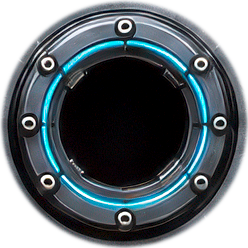
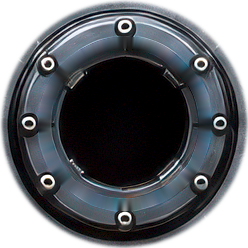
rovers: the knob rings drawn whole by code, the painted rings taken out of the art

Changed region(s): [[0.1411, 0.1411, 0.8468, 0.875]]

diff --git a/tools/bake-art/Rover.cpp b/tools/bake-art/Rover.cpp
@@ -56,6 +56,11 @@ namespace
         juce::Rectangle<float> slot;        // the slot cut down the room, its rim included — where the skin lays its fader
     };
 
+    /** A RING PAINTED ROUND A KNOB (`eraseRing`): the circle fitted to the middle of its light, `centre`
+        and `radius`; how far its middle wanders off that circle, at most (`reach`); and how far its light
+        reaches either side of its own middle, its glow on the groove's floor included (`half`). */
+    struct PaintedRing { juce::Point<float> centre; float radius, reach, half; };
+
     /** WHAT ONE ROVER'S PICTURE NEEDS. */
     struct Rover
     {
@@ -89,6 +94,13 @@ namespace
             pixel is a lit lamp, 0..1 — none where the picture paints no lamp lit. */
         float (*lampness) (juce::Colour);
         std::array<juce::Rectangle<float>, 4> lamps;
+
+        /** THE RINGS PAINTED ROUND THE KNOBS, TAKEN OUT: DRIVE's, in the dashboard's space, and the one in
+            the socket's render under each tone knob, in the socket's own — `socketSize` across, the
+            skin's plan.socketSize, the render twice that; and how much of a pixel is a ring's light. */
+        PaintedRing driveRing, socketRing;
+        float socketSize;
+        float (*ringness) (juce::Colour);
     };
 
     /** On a rusted dashboard warm is everywhere: a lamp is what is both warm AND bright — its red well
@@ -111,6 +123,19 @@ namespace
         const float warm   = (r - b - 0.25f) / 0.25f;
         const float bright = (0.3f * r + 0.59f * g + 0.11f * b - 0.38f) / 0.18f;
         return juce::jmin (juce::jlimit (0.0f, 1.0f, warm), juce::jlimit (0.0f, 1.0f, bright));
+    }
+
+    /** A cyan ring's light is green and blue well over red: the rust round RedPawAmp's has its red over
+        both, and FrostPawAmp's steel, blue as it is, only a little of either over its red. */
+    float cyanRingness (juce::Colour c)
+    {
+        return juce::jmin (c.getFloatGreen(), c.getFloatBlue()) - c.getFloatRed();
+    }
+
+    /** A white ring on dark gunmetal is what is bright. */
+    float whiteRingness (juce::Colour c)
+    {
+        return 0.3f * c.getFloatRed() + 0.59f * c.getFloatGreen() + 0.11f * c.getFloatBlue();
     }
 
     const std::array<Rover, 3> rovers {{
@@ -144,7 +169,12 @@ namespace
           {{ { 27.0f,   363.0f, 135.0f, 32.0f },      // the segments 37..152 x 373..385
              { 1510.0f, 363.0f, 132.0f, 32.0f },      // the segments 1520..1632 x 372..385
              { 69.0f,   824.0f, 62.0f, 63.0f },       // the slant 55..97 x 834..877 as painted, moved in with its plate
-             { 1541.0f, 824.0f, 62.0f, 63.0f } }} },  // the slant 1575..1617 x 834..877 as painted, moved in with its plate
+             { 1541.0f, 824.0f, 62.0f, 63.0f } }},    // the slant 1575..1617 x 834..877 as painted, moved in with its plate
+          // DRIVE's ring fits 374.28,538.36 r 71.72, its middle off that by +-0.64 for most of the way
+          // round and up to 1.8 at most; its light, glow and all, 3 either side. A tone socket's,
+          // 62.04,62.10 r 40.56 in its render, +-0.64; its light 2.25 either side.
+          { { 374.28f, 538.36f }, 71.72f, 2.5f, 3.0f }, { { 62.04f, 62.10f }, 40.56f, 2.0f, 2.25f }, 124.0f,
+          cyanRingness },
 
         // FROSTPAWAMP: three gears in its three notches, so nothing is filled; its third notch cut 804..830
         // down, its slot's lit edge 810..812, the straight run over it 789..803, the plate plain out to 848:
@@ -173,7 +203,12 @@ namespace
           {{ { 27.0f,   363.0f, 135.0f, 32.0f },      // the segments 40..152 x 372..386
              { 1510.0f, 363.0f, 132.0f, 32.0f },      // the segments 1520..1631 x 372..386
              { 69.0f,   824.0f, 62.0f, 63.0f },       // the slant 55..97 x 834..877 as painted, moved in with its plate
-             { 1541.0f, 824.0f, 62.0f, 63.0f } }} },  // the slant 1575..1617 x 834..877 as painted, moved in with its plate
+             { 1541.0f, 824.0f, 62.0f, 63.0f } }},    // the slant 1575..1617 x 834..877 as painted, moved in with its plate
+          // Its rings are painted wider and glow wider, over the steel too: DRIVE's fits 374.22,538.27
+          // r 72.06, +-0.92, its light 4 either side; a tone socket's 62.02,61.80 r 40.35, +-0.72, its light
+          // 3 either side. The faint ice-blue its glow leaves on the steel beyond that stays, as painted.
+          { { 374.22f, 538.27f }, 72.06f, 2.5f, 4.0f }, { { 62.02f, 61.80f }, 40.35f, 2.0f, 3.0f }, 124.0f,
+          cyanRingness },
 
         // AMBERPAWAMP: five ticks right of a straight slot, four places and one over them that is none; the
         // top tick, and a fourth gear's tick past its three, are painted over — the spare tick's white bar is
@@ -187,7 +222,11 @@ namespace
           {}, 0.0f,
           0.0f, {}, {},
           { 20.0f, 492.0f, 27.0f, 221.0f }, 13.0f, 21.0f / 27.0f,
-          nullptr, {} },
+          nullptr, {},
+          // Its rings are white: GAIN's fits 732.16,625.09 r 90.62, +-1.09, its light 3 either side; a tone
+          // socket's, 59.14,59.30 r 44.23 in its render, 118 across, +-0.26, its light 1.75 either side.
+          { { 732.16f, 625.09f }, 90.62f, 2.5f, 3.0f }, { { 59.14f, 59.30f }, 44.23f, 1.5f, 1.75f }, 118.0f,
+          whiteRingness },
     }};
 
     /** THE UPPER RIMS OF REVERB'S AND DELAY'S FRAMES GROW, so that the words over each well stand ON its
@@ -387,6 +426,141 @@ namespace
         return img;
     }
 
+    /** THE RINGS PAINTED ROUND THE KNOBS ARE TAKEN OUT, and the face draws each ring whole itself
+        (redpaw::KnobRing). A painted ring is no true circle — round RedPawAmp's DRIVE its middle wanders
+        up to a pixel and three quarters of the stage either way, half the ring's width — and the true
+        circle drawn over it left slivers of the painted one showing where it wandered out, and steps in
+        the lit band where it wandered in.
+
+        Round the ring, each way from its middle: where the ring's middle is — the middle of its light,
+        each colour weighed by its `ringness` — smoothed along the ring, so that the dark gap between two
+        segments follows its neighbours; and across that, `half` either way, the picture becomes what lies
+        just beyond the band, inside it and outside, drawn straight across — the groove's floor, with no
+        ring in it. Only the band changes: the rust, the steel, the screws round it stay as they were
+        painted. `k` is the picture's pixels to its space's. */
+    juce::Image eraseRing (juce::Image img, const PaintedRing& ring, float k, float (*ringness) (juce::Colour))
+    {
+        if (! img.isValid() || ringness == nullptr || ring.radius <= 0.0f || k <= 0.0f)
+            return img;
+
+        const auto original = img.createCopy();
+        const juce::Image::BitmapData src (original, juce::Image::BitmapData::readOnly);
+        juce::Image::BitmapData dst (img, juce::Image::BitmapData::readWrite);
+        const auto c = ring.centre * k;
+        const float radius = ring.radius * k, reach = ring.reach * k, half = ring.half * k;
+        const float twoPi = juce::MathConstants<float>::twoPi;
+
+        // The picture between its pixels, premultiplied as it is held, a pixel's middle on its whole
+        // coordinates.
+        struct Premultiplied { float a, r, g, b; };
+        const auto mix = [] (Premultiplied p, Premultiplied q, float t) -> Premultiplied
+        {
+            return { p.a + (q.a - p.a) * t, p.r + (q.r - p.r) * t, p.g + (q.g - p.g) * t, p.b + (q.b - p.b) * t };
+        };
+        const auto pixel = [&src] (int x, int y) -> Premultiplied
+        {
+            const auto* p = reinterpret_cast<const juce::PixelARGB*> (src.getPixelPointer (juce::jlimit (0, src.width - 1, x),
+                                                                                          juce::jlimit (0, src.height - 1, y)));
+            return { (float) p->getAlpha(), (float) p->getRed(), (float) p->getGreen(), (float) p->getBlue() };
+        };
+        const auto at = [&] (juce::Point<float> p)
+        {
+            const int x = (int) std::floor (p.x), y = (int) std::floor (p.y);
+            const float fx = p.x - (float) x, fy = p.y - (float) y;
+            return mix (mix (pixel (x, y), pixel (x + 1, y), fx), mix (pixel (x, y + 1), pixel (x + 1, y + 1), fx), fy);
+        };
+        const auto colourOf = [] (Premultiplied p)
+        {
+            return p.a <= 0.0f ? juce::Colour() : juce::Colour::fromFloatRGBA (p.r / p.a, p.g / p.a, p.b / p.a, p.a / 255.0f);
+        };
+
+        // The ring's middle, in each direction a pixel apart round it: the middle of what is lit over
+        // half the brightest across it, its light weighing each point.
+        const int n = juce::jmax (64, juce::roundToInt (twoPi * radius));
+        std::vector<float> middle ((size_t) n), light ((size_t) n);
+        for (int i = 0; i < n; ++i)
+        {
+            const float t = twoPi * (float) i / (float) n;
+            const juce::Point<float> u { std::cos (t), std::sin (t) };
+            std::vector<std::pair<float, float>> across;
+            float peak = 0.0f;
+            for (float r = radius - reach - half; r <= radius + reach + half; r += 0.25f)
+            {
+                across.push_back ({ r, ringness (colourOf (at (c + u * r))) });
+                peak = juce::jmax (peak, across.back().second);
+            }
+            float sum = 0.0f, weight = 0.0f;
+            for (const auto& [r, v] : across)
+                if (v > 0.5f * peak)
+                    sum += r * v, weight += v;
+            middle[(size_t) i] = weight > 0.0f ? sum / weight : radius;
+            light[(size_t) i] = peak;
+        }
+
+        // ...smoothed along the ring, four pixels of the stage each way, each middle weighed by how far it
+        // is lit over half the ring's usual light: a gap between segments, dark, takes its neighbours'.
+        auto sorted = light;
+        std::nth_element (sorted.begin(), sorted.begin() + n / 2, sorted.end());
+        const float dim = 0.5f * sorted[(size_t) n / 2];
+        const int span = juce::jmax (1, juce::roundToInt (4.0f * k));
+        std::vector<float> smooth ((size_t) n);
+        for (int i = 0; i < n; ++i)
+        {
+            float sum = 0.0f, weight = 0.0f;
+            for (int j = i - span; j <= i + span; ++j)
+            {
+                const auto other = (size_t) ((j + n) % n);
+                const float w = juce::jmax (0.0f, light[other] - dim);
+                sum += middle[other] * w, weight += w;
+            }
+            smooth[(size_t) i] = juce::jlimit (radius - reach, radius + reach, weight > 0.0f ? sum / weight : radius);
+        }
+
+        // Across the band, from what lies just beyond it inside to what lies just beyond it outside — each
+        // the mean of the picture there over a pixel and a half outward and a pixel either way along the
+        // ring, so that no one grain of it is drawn across in a streak.
+        const auto beyond = [&] (juce::Point<float> u, float from, float way)
+        {
+            const juce::Point<float> along { -u.y, u.x };
+            Premultiplied sum { 0.0f, 0.0f, 0.0f, 0.0f };
+            int taken = 0;
+            for (int s = 0; s < 3; ++s)
+                for (int a = -1; a <= 1; ++a)
+                    sum = mix (sum, at (c + u * (from + way * 0.75f * (float) s) + along * (float) a), 1.0f / (float) ++taken);
+            return sum;
+        };
+        const float outer = radius + reach + half + 2.0f;
+        const auto box = juce::Rectangle<float> (2.0f * outer, 2.0f * outer).withCentre (c).getSmallestIntegerContainer()
+                             .getIntersection (img.getBounds());
+        for (int y = box.getY(); y < box.getBottom(); ++y)
+            for (int x = box.getX(); x < box.getRight(); ++x)
+            {
+                const auto d = juce::Point<float> ((float) x, (float) y) - c;
+                const float r = d.getDistanceFromOrigin();
+                if (r < radius - reach - half - 1.0f || r > radius + reach + half + 1.0f)
+                    continue;
+
+                float t = std::atan2 (d.y, d.x);
+                if (t < 0.0f)
+                    t += twoPi;
+                const float f = t / twoPi * (float) n;
+                const int i0 = juce::jlimit (0, n - 1, (int) f), i1 = (i0 + 1) % n;
+                const float m = smooth[(size_t) i0] + (smooth[(size_t) i1] - smooth[(size_t) i0]) * (f - (float) i0);
+                const float off = r - m;
+                const float amount = juce::jlimit (0.0f, 1.0f, half + 0.5f - std::abs (off));     // a pixel's soft edge
+                if (amount <= 0.0f)
+                    continue;
+
+                const auto u = d / r;
+                const auto groove = mix (beyond (u, m - half, -1.0f), beyond (u, m + half, 1.0f), juce::jlimit (0.0f, 1.0f, (off + half) / (2.0f * half)));
+                const auto now = mix (pixel (x, y), groove, amount);
+                reinterpret_cast<juce::PixelARGB*> (dst.getPixelPointer (x, y))
+                    ->setARGB ((juce::uint8) juce::roundToInt (now.a), (juce::uint8) juce::roundToInt (now.r),
+                               (juce::uint8) juce::roundToInt (now.g), (juce::uint8) juce::roundToInt (now.b));
+            }
+        return img;
+    }
+
     /** A RENDER'S METAL LIFTED: each colour raised to `gamma` (under 1 lightens the darks most), its alpha
         as it was. */
     juce::Image lifted (const juce::Image& img, float gamma)
@@ -433,7 +607,9 @@ Pictures bakeRover (const juce::String& face, const Sources& sources)
     const auto& rover = *std::find_if (rovers.begin(), rovers.end(), [&face] (const Rover& r) { return face == r.face; });
     Pictures out;
 
-    auto dashboard = widenLampPlates (widenRims (shortenSlot (fitNotches (sources.load ("dashboard.png"), rover), rover), rover), rover);
+    auto dashboard = sources.load ("dashboard.png");
+    dashboard = eraseRing (dashboard, rover.driveRing, (float) dashboard.getWidth() / width, rover.ringness);
+    dashboard = widenLampPlates (widenRims (shortenSlot (fitNotches (dashboard, rover), rover), rover), rover);
     std::array<juce::Image, 4> lit;
     if (rover.lampness != nullptr && dashboard.isValid())
         for (size_t i = 0; i < lit.size(); ++i)
@@ -446,7 +622,12 @@ Pictures bakeRover (const juce::String& face, const Sources& sources)
     for (const char* name : { "knob-drive", "knob-tone", "socket", "key-frame-left", "key-frame-cell", "key-frame-right",
                               "lever", "slider-cap", "fader-cap",
                               "toggle-up", "toggle-down", "key-up", "key-down", "turbo-up", "turbo-down" })
-        out.push_back ({ juce::String (name) + ".webp", sources.load (juce::String (name) + ".png") });
+    {
+        auto img = sources.load (juce::String (name) + ".png");
+        if (juce::String (name) == "socket")
+            img = eraseRing (img, rover.socketRing, (float) img.getWidth() / rover.socketSize, rover.ringness);
+        out.push_back ({ juce::String (name) + ".webp", img });
+    }
 
     const auto lever = sources.load ("lever.png");
     out.push_back ({ "lever-glow.webp", glowOf (lever, leverGlowPad) });

diff --git a/src/redpaw/RedPawControls.h b/src/redpaw/RedPawControls.h
@@ -147,13 +147,16 @@ private:
 };
 
 //==============================================================================
-/** THE RING ROUND A KNOB: the cyan ring the dashboard paints round each knob's socket, made to say where
-    the knob stands — lit from the start of its travel to where its pointer is, the rest dimmed. It
-    breathes only when it matters: under the hand, or while the knob turns, it brightens softly, and
-    about a second after the hand has gone it eases back. Nothing moves on it otherwise.
+/** THE RING ROUND A KNOB: the ring round each knob's socket, made to say where the knob stands — lit
+    from the start of its travel to where its pointer is, the rest dim. It breathes only when it matters:
+    under the hand, or while the knob turns, it brightens softly, and about a second after the hand has
+    gone it eases back. Nothing moves on it otherwise.
 
-    It watches its knob (a dumb view watching another) and lies over the picture round it, `radius`
-    from the socket's middle and `width` wide, as the ring was painted; it never takes a click. */
+    It is the whole ring: the pictures had one painted in the groove round each socket, and tools/bake-art
+    takes it out of them, for a painted ring is no true circle — it wandered out from under a true one in
+    slivers, and in under it in steps at the lit band's edge. It watches its knob (a dumb view watching
+    another) and lies in that groove, `radius` from the socket's middle and `width` wide, where the ring
+    was painted; it never takes a click. */
 class KnobRing final : public juce::Component, private juce::Timer
 {
 public:
@@ -167,8 +170,9 @@ public:
 
     // What it is drawn with — said here so that the site's demo is drawn with it too (RedPawEditor::webExtras).
     static constexpr float from = -135.0f, sweep = 270.0f;      // a knob's travel, as ArtKnob turns it
-    static constexpr juce::uint32 veil = 0xff05090b;             // the painted ring dimmed under it...
-    static constexpr float veilAlpha = 0.62f, veilWider = 1.5f;  // ...this much, and this much wider than the ring
+    static constexpr juce::uint32 restDark = 0xff05090b;         // the rest of the ring: its light taken toward this dark...
+    static constexpr float restDim = 0.62f;                      // ...this far, as the painted ring looked under the veil that dimmed it
+    static juce::Colour restOf (juce::Colour light) { return light.interpolatedWith (juce::Colour (restDark), restDim); }
     static constexpr float litAlpha = 0.7f, litAlphaHand = 0.3f;         // the lit arc, and how much more under the hand
     static constexpr float glowAlpha = 0.35f, glowAlphaHand = 0.4f, glowRadius = 3.0f, glowRadiusHand = 4.0f;
     static constexpr float rimOfKnob = 0.46f, rimAlpha = 0.8f;   // under the hand, an orange rim round the cap, of the knob's width

diff --git a/src/redpaw/RedPawControls.cpp b/src/redpaw/RedPawControls.cpp
@@ -452,11 +452,12 @@ void KnobRing::paint (juce::Graphics& g)
         face::drawHandRim (g, rim, orange.withAlpha (rimAlpha * b));
     }
 
-    // The rest of the ring dimmed: the painted cyan under a dark veil.
+    // The rest of the ring, dim: a band of the ring's width, all the way round, in its light taken down
+    // toward the dark — one closed band, so that no seam shows where a circle's ends would meet.
     juce::Path whole;
-    whole.addCentredArc (c.x, c.y, radius, radius, 0.0f, 0.0f, juce::MathConstants<float>::twoPi, true);
-    g.setColour (juce::Colour (veil).withAlpha (veilAlpha));
-    g.strokePath (whole, juce::PathStrokeType (width + veilWider));
+    whole.addEllipse (juce::Rectangle<float> (radius * 2.0f, radius * 2.0f).withCentre (c));
+    g.setColour (restOf (skin.ringLight));
+    g.strokePath (whole, juce::PathStrokeType (width));
 
     // From the start of the travel to the pointer, lit: the arc made a band of the ring's own width
     // first, so that the glow and the light are that band and nothing else — a shadow drawn for the

diff --git a/tools/bake-art/BakeArt.cpp b/tools/bake-art/BakeArt.cpp
@@ -5,8 +5,9 @@
 //
 // Each face's renders are painted once and kept as they were painted, in resources/<face>/source. What a
 // face draws is not quite that: a rover's dashboard has its rims made taller for the words, its notches
-// fitted to the product's gears, its corner plates grown for a fader, and the lamps it paints lit cut out
-// of it, to be lit again from the engine; the cockpit's render has its windshield cut out and its TURBO
+// fitted to the product's gears, its corner plates grown for a fader, the lamps it paints lit cut out
+// of it, to be lit again from the engine, and the rings it and the sockets paint round the knobs taken
+// out, to be drawn whole by the face; the cockpit's render has its windshield cut out and its TURBO
 // frame raised; a lever has a glow the shape of it, a throttle grip is rebuilt. Each
 // face used to do that itself on every start. This does it once, and writes what comes out into
 // resources/<face> as lossless WebP — the panel, each render, each sprite made from one — and that is

diff --git a/src/redpaw/RedPawEditor.cpp b/src/redpaw/RedPawEditor.cpp
@@ -553,9 +553,7 @@ void RedPawEditor::webExtras (const juce::File& dir, juce::DynamicObject& places
     ring->setProperty ("from", KnobRing::from);
     ring->setProperty ("sweep", KnobRing::sweep);
     ring->setProperty ("light", colour (skin.ringLight));
-    ring->setProperty ("veil", colour (juce::Colour (KnobRing::veil)));
-    ring->setProperty ("veilAlpha", KnobRing::veilAlpha);
-    ring->setProperty ("veilWider", KnobRing::veilWider);
+    ring->setProperty ("rest", colour (KnobRing::restOf (skin.ringLight)));     // the whole ring, under the lit arc: the pictures paint none
     ring->setProperty ("litAlpha", KnobRing::litAlpha);
     ring->setProperty ("litAlphaHand", KnobRing::litAlphaHand);
     ring->setProperty ("glowAlpha", KnobRing::glowAlpha);
